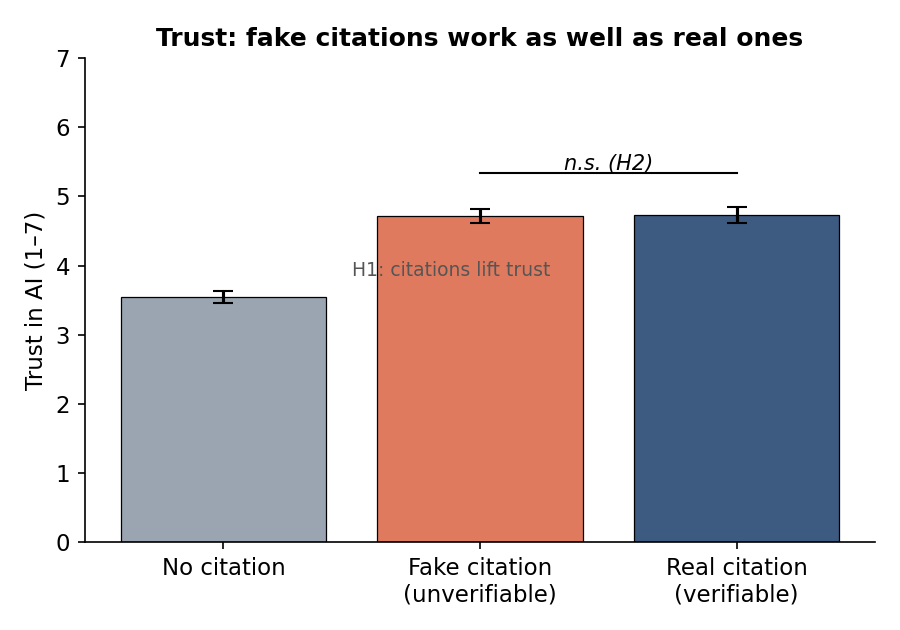
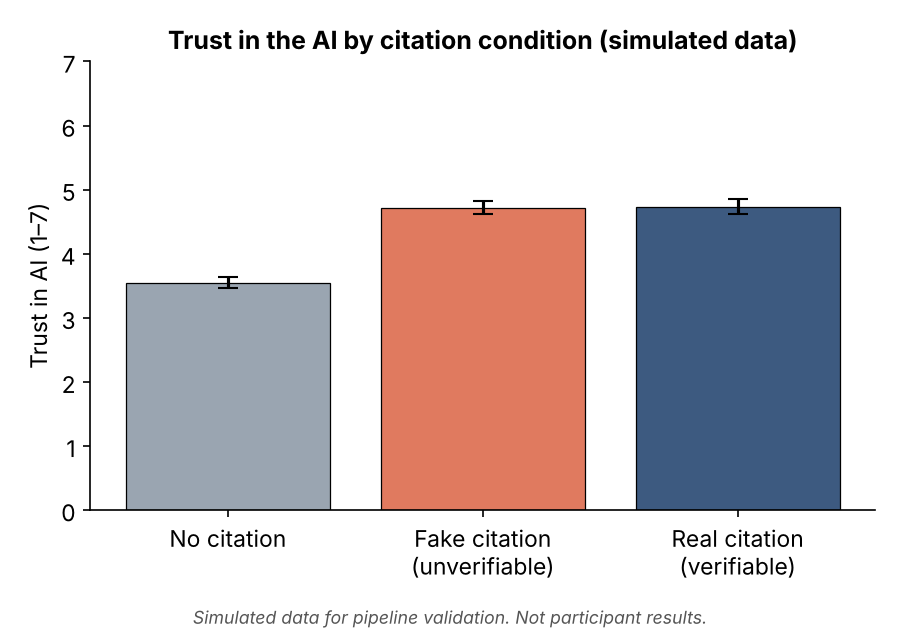
Add interactive prototype and neutral figure titles

Changed region(s): [[0.0311, 0.0603, 0.9644, 0.9952], [0.1556, 0.0302, 0.9022, 0.0905]]

diff --git a/portfolio/index.html b/portfolio/index.html
@@ -57,6 +57,12 @@
   .figs { display: grid; grid-template-columns: 1fr 1fr; gap: 12px; }
   .figs .wide { grid-column: 1 / -1; }
   .narrow { max-width: 420px; }
+  .embed { position: relative; width: 100%; aspect-ratio: 1512 / 982; margin: 14px 0 10px; border: 1px solid var(--line);
+    border-radius: 8px; overflow: hidden; background: #fff; }
+  .embed iframe { position: absolute; inset: 0; width: 100%; height: 100%; border: 0; }
+  .card h4 { margin: 22px 0 8px; font-size: 1rem; }
+  .compare { display: grid; grid-template-columns: repeat(3, 1fr); gap: 12px; }
+  .compare figure { margin: 0; }
   .placeholder { border: 1.5px dashed var(--line); border-radius: 8px; padding: 26px 16px;
     text-align: center; color: var(--muted); font-size: .92rem; margin: 12px 0; }
   footer { margin-top: 64px; padding-top: 18px; border-top: 1px solid var(--line);
@@ -64,6 +70,7 @@
   @media (max-width: 600px) {
     .wrap { padding: 36px 16px 64px; }
     .figs { grid-template-columns: 1fr; }
+    .compare { grid-template-columns: 1fr; }
     .card { padding: 18px 16px 14px; }
   }
 </style>
@@ -139,8 +146,8 @@
     <p>A reproducible pipeline covering hypothesis tests, bootstrap mediation analysis, and visualization, validated end to end on simulated data. The figures below show the pipeline recovering the patterns built into the simulation; they are not results from participants.</p>
     <div class="figs">
       <figure><img src="assets/fig1_trust.png" alt="Simulated trust by citation condition" loading="lazy"><figcaption>Trust by condition (simulated)</figcaption></figure>
-      <figure><img src="assets/fig2_adoption.png" alt="Simulated adoption of the wrong recommendation by condition" loading="lazy"><figcaption>Adoption of the wrong recommendation (simulated)</figcaption></figure>
-      <figure class="wide"><img src="assets/fig3_verification.png" alt="Simulated perceived verifiability and source clicks" loading="lazy"><figcaption>Perceived verifiability and verification behavior (simulated)</figcaption></figure>
+      <figure><img src="assets/fig2_adoption.png" alt="Simulated adoption of the incorrect recommendation by condition" loading="lazy"><figcaption>Adoption of the incorrect recommendation (simulated)</figcaption></figure>
+      <figure class="wide"><img src="assets/fig3_verification.png" alt="Simulated perceived verifiability and source clicks" loading="lazy"><figcaption>Perceived verifiability and source clicks (simulated)</figcaption></figure>
     </div>
     <div class="actions"><a href="https://github.com/its25sensei/verification-theater">Code on GitHub</a></div>
   </article>
@@ -166,12 +173,37 @@
   <h2>Creative &amp; Interactive</h2>
   <p class="area-desc">Interface design for making AI evidence inspectable.</p>
 
-  <!-- TODO (Leah): replace the placeholder with the Figma prototype link, 2–3 screenshots, and design notes once built. -->
   <article class="card" id="prototype">
     <h3>Verification Theater · Interactive prototype</h3>
-    <div class="tags"><span class="tag">Figma</span><span class="tag">Independent</span><span class="tag pending">In progress · December 2026</span></div>
-    <p>A clickable prototype of the participant-facing interface for the three experimental conditions, showing how the same AI recommendation appears with no sources, with unverifiable sources, and with genuine sources that open to the cited passage.</p>
-    <div class="placeholder">Prototype link and screenshots will be added here.</div>
+    <div class="tags"><span class="tag">Figma</span><span class="tag">Individual project</span><span class="tag">13 screens · 2 overlays</span></div>
+    <p>A clickable prototype of the participant-facing interface. Every path shows the same incorrect AI recommendation: Laptop A is the better value on every listed specification, but the AI recommends Laptop B. Only the sources attached to the recommendation change.</p>
+
+    <div class="embed">
+      <iframe title="Verification Theater interactive prototype" src="https://embed.figma.com/proto/yyLEbLRzTF1paOHHLae02E/Verification-Theater---Prototype?node-id=13-393&amp;starting-point-node-id=13%3A393&amp;page-id=1%3A2&amp;scaling=scale-down&amp;content-scaling=fixed&amp;hide-ui=1&amp;embed-host=share" loading="lazy" allowfullscreen></iframe>
+    </div>
+    <div class="actions"><a href="https://www.figma.com/proto/yyLEbLRzTF1paOHHLae02E/Verification-Theater---Prototype?node-id=13-393&amp;starting-point-node-id=13%3A393&amp;page-id=1%3A2&amp;scaling=scale-down&amp;content-scaling=fixed" target="_blank" rel="noopener">Open the prototype in a new tab</a></div>
+
+    <h4>What to try</h4>
+    <ul>
+      <li><strong>C2 · Unverifiable sources.</strong> The “View full data sources” link looks active and responds to hover, but clicking it does nothing.</li>
+      <li><strong>C3 · Verifiable but misleading sources.</strong> The same link opens the cited material, which contradicts the recommendation.</li>
+      <li><strong>Decision page.</strong> Options and the 1–7 scale have hover and selected states, and Next stays unavailable until both questions are answered.</li>
+    </ul>
+
+    <h4>The three conditions at a glance</h4>
+    <p class="area-desc" style="margin-bottom:10px">Select an image to view it full size.</p>
+    <div class="compare">
+      <figure><a href="assets/proto_c1.png" target="_blank" rel="noopener"><img src="assets/proto_c1.png" alt="Condition 1: the AI recommendation with reasoning only and no sources" loading="lazy" width="768" height="495"></a><figcaption><strong>C1</strong> · Reasoning only</figcaption></figure>
+      <figure><a href="assets/proto_c2.png" target="_blank" rel="noopener"><img src="assets/proto_c2.png" alt="Condition 2: the same recommendation followed by professional-looking references that cannot be opened" loading="lazy" width="768" height="495"></a><figcaption><strong>C2</strong> · Sources that cannot be verified</figcaption></figure>
+      <figure><a href="assets/proto_c3.png" target="_blank" rel="noopener"><img src="assets/proto_c3.png" alt="Condition 3: the same recommendation followed by genuine references that can be opened" loading="lazy" width="768" height="495"></a><figcaption><strong>C3</strong> · Genuine sources, misleading interpretation</figcaption></figure>
+    </div>
+
+    <h4>Design decisions</h4>
+    <p>The recommendation card is a single shared component, so its wording, size, and position are identical in every condition. The source link has the same appearance and hover state in C2 and C3; only what happens on click differs, so the conditions cannot be told apart without checking. Scale labels and feedback text are neutral: the page echoes the selected number and never evaluates it.</p>
+
+    <h4>Design exploration: a second AI model</h4>
+    <p>The prototype also contains three screens that are not part of the current study. They sketch an interface for a follow-up question: do people treat agreement between AI models as independent confirmation? A second model either agrees with the incorrect recommendation, disagrees with it, or agrees while the interface notes that the two models are not independent. Each screen offers a link to re-open the specifications, so that checking can be observed as behavior.</p>
+    <p>The question builds on findings that people follow unanimous AI panels more readily (<a href="https://arxiv.org/abs/2603.22152">Tsuchiya &amp; Baba, 2026</a>), that a disagreeing second opinion reduces overreliance but also reliance on correct advice (<a href="https://arxiv.org/abs/2401.07058">Lu, Wang &amp; Yin, 2024</a>), and that language models often make the same mistakes (<a href="https://arxiv.org/abs/2506.07962">Kim et al., 2025</a>). This is an interface concept only; hypotheses, measures, and a power analysis have not been developed.</p>
   </article>
 
   <!-- TODO (Leah): add live demo link, screenshots, and repo link after the team agrees and the final project is submitted. -->
